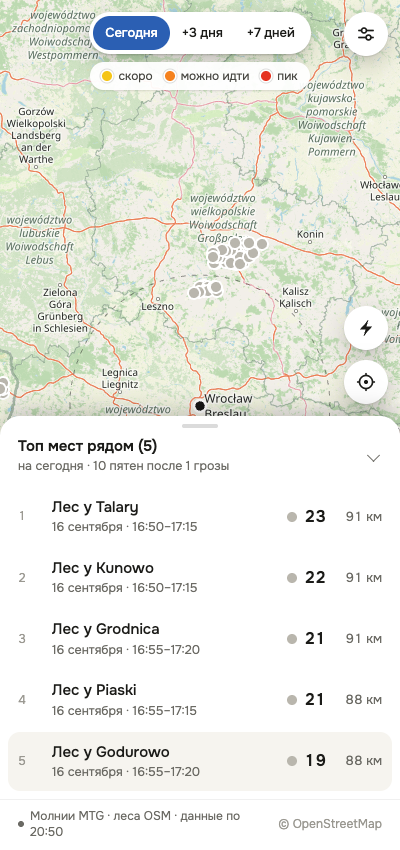
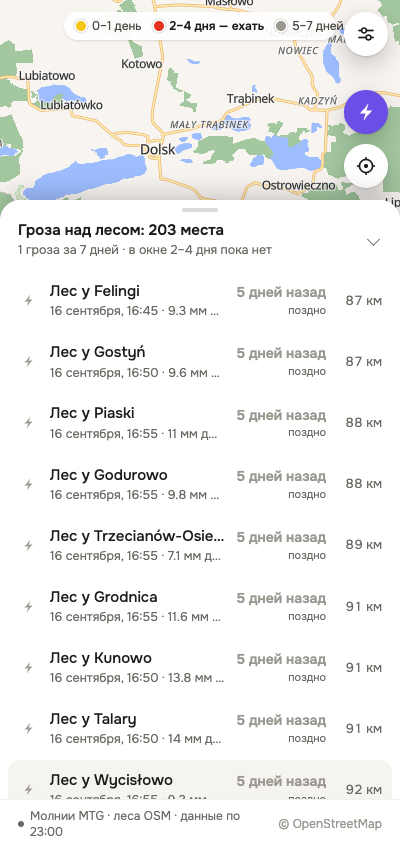
Отчёт и снимки под новую концепцию

diff --git a/REPORT.md b/REPORT.md
@@ -1,6 +1,8 @@
 # Отчёт: что сделано
 
-Приложение готово и работает. Ниже — что получилось, какие решения я принял сам и что осталось несделанным.
+Инструмент для проверки гипотезы «разряд молнии провоцирует боровики».
+Показывает только измеренное: где за последние 7 дней молнии пришлись на лес и когда.
+Решение, когда ехать, остаётся за вами.
 
 ## Как запустить
 
@@ -9,111 +11,78 @@ cd ~/projects/borowiki
 npm start
 ```
 
-Открыть `http://localhost:8080`. С телефона — по адресу, который сервер печатает при старте (нужен общий Wi-Fi).
-Зависимостей нет, `npm install` не нужен. Сервер сам обновляет данные при старте и дальше раз в час.
+Открыть `http://localhost:8080`. С телефона — по адресу, который сервер печатает при старте.
+Зависимостей нет, `npm install` не нужен. Данные обновляются при старте и дальше раз в час.
 
-Пересобрать данные вручную: `npm run update`.
-Показать демо-неделю с сильными грозами: `npm run update:demo`.
+| Команда | Что делает |
+|---|---|
+| `npm start` | сервер |
+| `npm run update` | пересобрать грозы за последние 7 суток |
+| `npm run forests` | пересобрать обзорный слой лесов (нужно один раз) |
+| `npm run region -- Гродно` | перенести всю область данных в другое место (~8 минут) |
 
-## Что приложение показывает
+## Что на экране
 
-Карта мест, где за последние 7 суток гроза прошла **над лесом**, с точным временем. Один экран, как в макете:
-переключатель «Сегодня / +3 дня / +7 дней», пятна на карте от жёлтого к красному, топ-5 мест рядом,
-карточка места, кнопка ⚡ с разрядами, настройки (дом и радиус), строка состояния.
+- **Зелёное** — все леса в радиусе 200 км от Вроцлава.
+- **Молния в кружке** — место, где разряды пришлись на лес. Рядом залит сам контур леса.
+- **Цвет — сколько дней прошло:** 0–1 день жёлтый «рано», **2–4 дня красный «пора ехать»**, 5–7 дней серый «поздно».
+- **Фиолетовые точки (кнопка ⚡)** — все разряды за неделю, включая поля. Видно путь грозы.
+- **Список снизу** — от самых свежих гроз к старым, с расстоянием от дома.
+- **Карточка** — дата и время грозы, сколько дней прошло, площадь и сила разрядов, дождь в грозу
+  и после неё, температура, график за месяц, «Маршрут», «Нашёл / Пусто».
+
+Отметки «Нашёл / Пусто» пишутся в `data/finds.json` вместе с координатами, датой грозы
+и днём приезда после неё — это и есть журнал проверки гипотезы.
 
 ## Откуда данные (ключи не нужны)
 
-| Слой | Источник | Как используется |
-|---|---|---|
-| Молнии | EUMETView WMS, слой `mtg_fd:li_afa` (MTG Lightning Imager) | Кадр каждые 5 минут, ~2000 кадров на неделю. Сетка 0,02° (≈1,4×2,2 км) |
-| Леса, деревни, охраняемые территории | Векторные тайлы OpenFreeMap (данные OSM), zoom 11 | Контуры лесов, названия пунктов, границы парков и резерватов |
-| Осадки и температура | Open-Meteo, эндпоинт forecast с `past_days=31` | Дождь в день грозы, график за месяц, оценка готовности |
+| Слой | Источник |
+|---|---|
+| Молнии | EUMETView WMS, слой `mtg_fd:li_afa` (MTG Lightning Imager). Кадр каждые 5 минут, ~2000 кадров на неделю |
+| Леса, деревни, охраняемые территории | Векторные тайлы OpenFreeMap (данные OSM), zoom 11 |
+| Дождь и температура | Open-Meteo, эндпоинт forecast с `past_days=31` |
+| Поиск места | Nominatim (OSM) |
 
-## Как считается «пятно»
+Точность положения грозы — несколько километров, это предел прибора.
 
-1. Каждый 5-минутный кадр раскладывается на ячейки сетки с силой вспышек 0–6 по цветовой шкале.
-2. Для каждой ячейки отдельно копится её собственная история: перерыв дольше 45 минут — это уже другая гроза.
-   Так у каждого места своё время грозы, а не время фронта, который шёл над регионом восемь часов.
-3. Ячейки слабее порога отбрасываются — у слоя широкий бледный ореол вокруг грозы, и без порога
-   «гроза» покрывала бы треть региона.
-4. Оставшиеся ячейки пересекаются с контурами лесов, склеиваются в связные области и режутся на куски
-   не больше ~5 км — чтобы пятно оставалось конкретным местом.
-   На карту идёт сам контур леса под грозой, закрашенный по оценке: видно не круг поверх карты,
-   а конкретный массив, который накрыло.
-5. Для центра каждого пятна запрашивается погода и считается оценка 0–100.
+## Как находится «гроза над лесом»
 
-Оценка: время с грозы (пик около девятого дня, окно 3–16 дней) × осадки в грозу (насыщение к 30 мм) ×
-баланс влаги (осадки минус испарение) × температурное окно (оптимум 10–19 °C, ноль ниже 4 и выше 24).
+1. Каждый 5-минутный кадр раскладывается на ячейки сетки 0,02° (≈1,4×2,2 км) с силой вспышек 0–6.
+2. Для каждой ячейки копится своя история: перерыв дольше 45 минут — уже другая гроза.
+   Поэтому у каждого места своё время, а не время фронта, шедшего над регионом часами.
+3. Слабые ячейки отбрасываются: у слоя широкий бледный ореол, без порога «гроза» покрывала бы треть региона.
+4. Оставшиеся ячейки пересекаются с контурами лесов и режутся на куски не больше ~5 км.
+5. Для каждого места запрашивается дождь и температура.
 
-## Решения, которые я принял сам
+## Что я сделал неправильно и исправил
 
-- **Леса беру из векторных тайлов, а не из Overpass.** Overpass отвечает 406 без заголовка User-Agent,
-  под нагрузкой отдаёт 504 и занимает минуты на один запрос. Тайлы отвечают за сотни миллисекунд,
-  не имеют лимитов, кэшируются и заодно дают названия деревень и границы охраняемых территорий.
-- **Свои декодеры PNG и векторных тайлов** вместо npm-пакетов: проекту не нужен `node_modules` вообще.
-- **Ползунок радиуса до 200 км, а не до 100 как в макете.** Данные собираются в радиусе 200 км,
-  и на проверке оказалось, что ближайшие грозы бывают дальше 100 км — с ограничением в 100 км
-  экран оставался пустым.
-- **Высота нижней панели ограничена сильнее, чем в макете** (`100dvh − 200px` вместо `− 110px`):
-  при открытой карточке круглые кнопки доезжали до верха и перекрывали шестерёнку настроек.
-- **Название массива — из охраняемой территории, иначе «Лес у \<деревни\>».** В тайлах у лесных
-  контуров нет имён. «Лес у Pokój» для навигации даже полезнее, чем имя массива в 500 км².
-- **Предупреждение об охраняемых территориях.** В национальных парках и резерватах Польши сбор грибов
-  запрещён — карточка говорит об этом до выезда.
-- **Закрашивается контур леса, а не круг вокруг пятна.** В макете пятно — круг, но на реальных
-  данных круг закрывал сам лес, и было непонятно, о каком массиве речь. Теперь заливается
-  настоящий контур из тайлов, а точка-маркер осталась, чтобы место было заметно на мелком масштабе.
-- **Слабейшая ступень шкалы не сохраняется в кэш кадров** — в расчёте силы она весит ноль,
-  а места занимала втрое больше.
+Изначально я построил **модель готовности грибов**: оценка 0–100, переключатель «Сегодня / +3 / +7 дней»,
+надпись «пик ожидается». Это была моя выдумка с пиком на девятый день после грозы — ни на чём
+не проверенная и прямо противоречащая правилу владельца (ехать через 2–4 дня).
+Я принял макет Claude Design за источник истины вместо исходной задачи. Всё это убрано.
 
-## Что показывают данные прямо сейчас
+Осталось только измеренное. Единственное «мнение» в приложении — окно 2–4 дня,
+и это правило самого владельца, а не моё.
 
-За последние 7 суток над регионом прошла **одна гроза — 16 сентября**. Она дала 274 пятна «гроза над лесом»,
-из них 10 в радиусе 100 км от Вроцлава. Ближайшие — леса у Talary, Kunowo, Grodnica, Piaski, Godurowo
-в 88–91 км к северу, гроза шла там с 16:50 до 17:20, дала 14 мм дождя.
+## Проверено запуском
 
-Оценка на сегодня — 19–23 («нет условий»): прошло всего 5 дней. На «+3 дня» те же места желтеют,
-пик по модели — 23–27 сентября. Это и есть ответ приложения: ехать туда стоит в ближайшие выходные.
+- Привязка координат: точечный запрос по вычисленным координатам попадает в засвеченную ячейку исходного слоя.
+- Чистый старт: удалил `public/data/spots.json`, `npm start` — сервер сам пересобрал данные и отдал страницу.
+- Сценарий в браузере на 400×850 и 1440×900: карта, леса, метки, список, карточка, отметка,
+  слой разрядов, настройки, поиск места, выбор дома по карте, перезагрузка.
+- Консоль без ошибок; все запросы приложения отвечают 200.
+- Отметки переживают перезапуск сервера.
+- Повторное обновление — 6 секунд (первый сбор недели ~7 минут).
 
-![Карта](docs/screens/01-карта.png)
-![Список](docs/screens/02-список.png)
-![Карточка](docs/screens/03-карточка.png)
+## Что дальше
 
-## Проверено
-
-Всё — реальным запуском, а не на глаз:
-
-- **Привязка координат.** Точечный запрос по вычисленным координатам попадает в засвеченную ячейку
-  исходного слоя. Проверено на трёх ячейках подряд при заполненности кадра 3% — случайным совпадением не объяснить.
-- **Чистый старт.** Удалил `public/data/spots.json`, запустил `npm start` — сервер поднялся, сам увидел
-  отсутствие данных, пересобрал 274 пятна и отдал страницу.
-- **Полный сценарий в браузере** на 400×850 и 1440×900: карта и подложка, переключение горизонта,
-  список, карточка, отметка «Нашёл грибы», слой разрядов, настройки, выбор дома по карте, перезагрузка.
-- **Консоль и сеть чистые:** 0 ошибок, все запросы приложения 200.
-- **Отметки переживают перезапуск сервера** — лежат в `data/finds.json` с координатами, лесом и датой.
-- **Предупреждение об устаревании:** сдвинул `generatedAt` на 5 часов назад — строка состояния покраснела
-  и написала «Данные не обновлялись 5 ч».
-- **Повторное обновление быстрое:** первый прогон недели — около 7 минут на 2000 кадров,
-  последующие — 6 секунд.
-
-### Что я чинил по ходу
-
-- Круглые кнопки при открытой карточке перекрывали шестерёнку настроек (высота панели из макета).
-- Слой разрядов рисовался под пятнами и был не виден — поднял в отдельный слой над ними.
-- Карта не занимала всю ширину после изменения размера окна — добавил пересчёт размера.
-- Деревня дублировалась в названии и подписи («Лес у Talary» / «у Talary · …»).
-- Поле с названием дома не обновлялось после выбора точки на карте.
-- Кадры с постоянным пробелом в данных сервиса перезапрашивались каждый запуск — теперь после двух
-  неудач помечаются пробелом (в текущей неделе таких 146).
-
-## Чего нет и что стоит улучшить
-
-- **Названий лесных массивов** («Bory Stobrawskie») — в тайлах их нет. Можно добавить разовый запрос
-  в Overpass с кэшем: названия получались бы для части пятен, а сбой был бы не фатален.
-- **Blitzortung** (точность 1–3 км вместо нескольких километров у спутника) не подключён:
-  сеть даёт только живой поток, он копил бы данные лишь пока включён компьютер.
-- **Калибровки модели по находкам.** Кнопки «Нашёл / Пусто» уже пишут отметки с координатами и датой —
-  со временем по ним можно проверить и саму гипотезу про грозы, и пороги оценки.
-- **Пород леса** (сосна, дуб, берёза) нет. Для Польши их даёт Bank Danych o Lasach.
-- Сервер EUMETSAT иногда отвечает 502 на часть кадров; следующий запуск их докачивает,
-  потому что в кэш попадают только успешные.
+- **Проверка гипотезы.** Нужны отметки. Когда их наберётся хотя бы пара десятков, можно будет
+  посмотреть: правда ли находки чаще там, где били молнии, и на какой день после грозы.
+- **Контроль для честной проверки.** Сейчас видны только места с молниями. Чтобы отличить
+  «молния» от «просто дождь», нужен второй слой: леса, где был такой же дождь, но без разрядов.
+  Без него гипотезу не проверить строго.
+- **Blitzortung** дал бы точность 1–3 км вместо нескольких километров, но только живым потоком —
+  данные копились бы, пока включён компьютер.
+- **Названий лесных массивов** в тайлах нет, поэтому «Лес у \<деревни\>». Для навигации это даже удобнее.
+- Сервис EUMETSAT иногда отвечает 502 на отдельные кадры; после двух неудач кадр помечается
+  пробелом и больше не запрашивается (в текущей неделе таких 147 из 2016).
